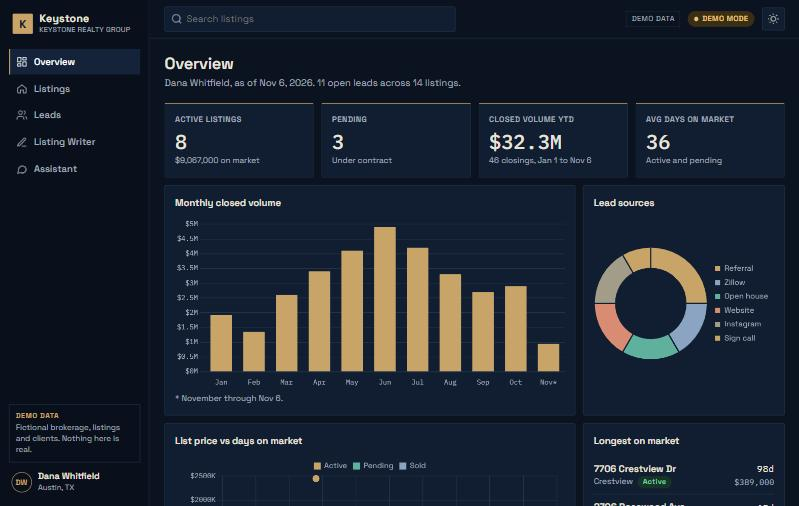
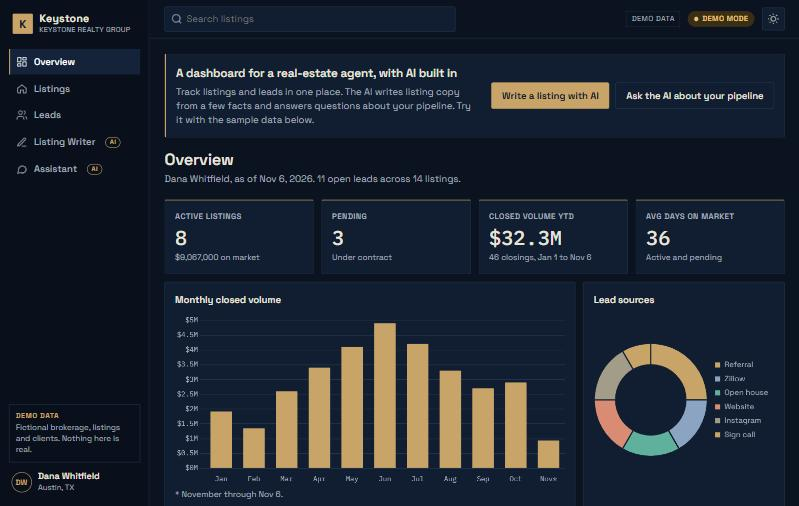
Make the AI features obvious on first visit
Adds an intro strip with one-click AI demos, AI markers in the nav, and
a prefilled listing writer so a visitor sees the AI work immediately.

diff --git a/app/writer/page.js b/app/writer/page.js
@@ -2,6 +2,7 @@
 
 import { useEffect, useRef, useState } from "react";
 import Icon from "@/components/Icon";
+import AiMark from "@/components/AiMark";
 import { ModeBadge } from "@/components/Shell";
 import { streamText } from "@/lib/streamClient";
 
@@ -98,8 +99,8 @@ export default function WriterPage() {
     <>
       <div className="page-head">
         <div>
-          <h1>AI Listing Writer</h1>
-          <p className="muted">Draft MLS copy from the facts you enter. Review before publishing.</p>
+          <h1>Listing Writer <AiMark /></h1>
+          <p className="muted"><strong>What the AI does:</strong> turns these facts into ready-to-post listing copy in your chosen tone. The example is filled in, so just press the button.</p>
         </div>
         <ModeBadge />
       </div>
@@ -132,7 +133,7 @@ export default function WriterPage() {
           </div>
 
           <div className="field">
-            <label htmlFor="w-tag">Key features <span className="muted small">(Enter or comma adds, up to 12)</span></label>
+            <label htmlFor="w-tag">Key features <span className="muted small">(press Enter to add)</span></label>
             <div className="tags" onClick={() => document.getElementById("w-tag")?.focus()}>
               {features.map((t) => (
                 <span key={t} className="tag">
@@ -152,30 +153,24 @@ export default function WriterPage() {
           </div>
 
           <div className="form-grid">
-            <fieldset className="field radios">
+            <fieldset className="field radios span-all">
               <legend>Tone</legend>
               {["Warm", "Luxury", "Concise"].map((t) => (
                 <label key={t} className="radio"><input type="radio" name="tone" value={t} checked={f.tone === t} onChange={set("tone")} /><span>{t}</span></label>
               ))}
             </fieldset>
-            <fieldset className="field radios">
-              <legend>Length</legend>
-              {["Short", "Standard", "Long"].map((t) => (
-                <label key={t} className="radio"><input type="radio" name="length" value={t} checked={f.length === t} onChange={set("length")} /><span>{t}</span></label>
-              ))}
-            </fieldset>
           </div>
 
-          <button type="submit" className="btn btn-primary" disabled={busy}>{busy ? "Writing..." : "Write description"}</button>
+          <button type="submit" className="btn btn-primary" disabled={busy}>{busy ? "Writing..." : "Write the listing with AI"}</button>
         </form>
 
         <section className="card output" aria-labelledby="out-h">
           <div className="output-head">
-            <h2 id="out-h">Description</h2>
+            <h2 id="out-h">Your listing copy</h2>
             <span className="num muted small" aria-label={`${out.length} characters`}>{out.length.toLocaleString("en-US")} chars</span>
           </div>
           <div className={`output-body${busy ? " streaming" : ""}`} aria-busy={busy}>
-            {err ? <p className="error" role="alert">{err}</p> : out ? <p>{out}</p> : <p className="muted">The generated description appears here. MLS fields usually cap at 1,000 to 4,000 characters, so check your board&apos;s limit.</p>}
+            {err ? <p className="error" role="alert">{err}</p> : out ? <p>{out}</p> : <p className="muted">Your listing copy will appear here. Press the button to see it, then check your board&apos;s character limit before posting.</p>}
           </div>
           <div className="output-actions">
             <button type="button" className="btn btn-ghost" onClick={copy} disabled={!out || busy}><Icon name="copy" size={15} /> {copied ? "Copied" : "Copy"}</button>

diff --git a/app/assistant/page.js b/app/assistant/page.js
@@ -2,6 +2,7 @@
 
 import { useEffect, useRef, useState } from "react";
 import Icon from "@/components/Icon";
+import AiMark from "@/components/AiMark";
 import { ModeBadge } from "@/components/Shell";
 import { streamText } from "@/lib/streamClient";
 import { loadStageOverrides } from "@/lib/leadStages";
@@ -103,8 +104,8 @@ export default function AssistantPage() {
     <>
       <div className="page-head">
         <div>
-          <h1>Assistant</h1>
-          <p className="muted">Ask about listings, leads and closings. Answers draw on the demo data only.</p>
+          <h1>Assistant <AiMark /></h1>
+          <p className="muted"><strong>Answers from your real listings and leads data.</strong> Ask in plain English, or tap a question below.</p>
         </div>
         <div className="head-actions">
           <ModeBadge />
@@ -116,8 +117,13 @@ export default function AssistantPage() {
         <div className="chat-log" role="log" aria-live="off" aria-busy={busy} aria-label="Conversation" tabIndex={0}>
           {msgs.length === 0 && (
             <div className="chat-empty">
-              <p className="strong">Start with a question</p>
-              <p className="muted">The assistant sees a compact summary of 14 listings, 12 leads (with your current stages) and monthly closings.</p>
+              <p className="strong">Tap a question to see the AI answer</p>
+              <p className="muted">It reads 14 listings, 12 leads (with your current stages) and monthly closings.</p>
+              <div className="chips chips-big" aria-label="Suggested questions">
+                {CHIPS.map((c) => (
+                  <button key={c} type="button" className="chip-btn" disabled={busy} onClick={() => send(c)}>{c}</button>
+                ))}
+              </div>
             </div>
           )}
           {msgs.map((m, i) => (
@@ -134,11 +140,11 @@ export default function AssistantPage() {
         </div>
         <p className="sr-only" role="status" aria-live="polite">{status}</p>
 
-        <div className="chips" aria-label="Suggested questions">
+        {msgs.length > 0 && <div className="chips" aria-label="Suggested questions">
           {CHIPS.map((c) => (
             <button key={c} type="button" className="chip-btn" disabled={busy} onClick={() => send(c)}>{c}</button>
           ))}
-        </div>
+        </div>}
 
         <form className="composer" onSubmit={(e) => { e.preventDefault(); send(input); }}>
           <label htmlFor="chat-in" className="sr-only">Ask about your pipeline</label>

diff --git a/app/listings/page.js b/app/listings/page.js
@@ -24,21 +24,17 @@ function ListingsView() {
   const params = useSearchParams();
   const [q, setQ] = useState(params.get("q") || "");
   const [status, setStatus] = useState("All");
-  const [hood, setHood] = useState("All");
   const [sort, setSort] = useState({ key: "dom", dir: "desc" });
 
   useEffect(() => {
     setQ(params.get("q") || "");
   }, [params]);
 
-  const hoods = useMemo(() => [...new Set(listings.map((l) => l.neighborhood))].sort(), []);
-
   const rows = useMemo(() => {
     const t = q.trim().toLowerCase();
     const r = listings.filter(
       (l) =>
         (status === "All" || l.status === status) &&
-        (hood === "All" || l.neighborhood === hood) &&
         (!t || `${l.address} ${l.neighborhood} ${l.zip} ${l.status} ${l.id}`.toLowerCase().includes(t))
     );
     const { key, dir } = sort;
@@ -48,7 +44,7 @@ function ListingsView() {
       return dir === "asc" ? c : -c;
     });
     return r;
-  }, [q, status, hood, sort]);
+  }, [q, status, sort]);
 
   const setSortKey = (key) => setSort((s) => (s.key === key ? { key, dir: s.dir === "asc" ? "desc" : "asc" } : { key, dir: "asc" }));
 
@@ -72,13 +68,6 @@ function ListingsView() {
             {["All", "Active", "Pending", "Sold"].map((s) => <option key={s}>{s}</option>)}
           </select>
         </div>
-        <div className="field">
-          <label htmlFor="lh">Neighborhood</label>
-          <select id="lh" value={hood} onChange={(e) => setHood(e.target.value)}>
-            <option>All</option>
-            {hoods.map((h) => <option key={h}>{h}</option>)}
-          </select>
-        </div>
         <div className="field sort-mobile">
           <label htmlFor="lsort">Sort by</label>
           <select id="lsort" value={`${sort.key}:${sort.dir}`} onChange={(e) => { const [key, dir] = e.target.value.split(":"); setSort({ key, dir }); }}>
@@ -91,7 +80,7 @@ function ListingsView() {
       </div>
 
       {rows.length === 0 ? (
-        <div className="card empty">No listings match those filters. <button type="button" className="text-link" onClick={() => { setQ(""); setStatus("All"); setHood("All"); }}>Clear filters</button></div>
+        <div className="card empty">No listings match those filters. <button type="button" className="text-link" onClick={() => { setQ(""); setStatus("All"); }}>Clear filters</button></div>
       ) : (
         <>
           <div className="card table-card">

diff --git a/components/Shell.js b/components/Shell.js
@@ -4,6 +4,7 @@ import { createContext, useCallback, useContext, useEffect, useState } from "rea
 import Link from "next/link";
 import { usePathname, useRouter } from "next/navigation";
 import Icon from "./Icon";
+import AiMark from "./AiMark";
 import { AGENT } from "@/lib/data";
 
 const AppCtx = createContext({ theme: "light", toggleTheme: () => {}, live: null });
@@ -13,8 +14,8 @@ const NAV = [
   { href: "/", label: "Overview", icon: "grid" },
   { href: "/listings", label: "Listings", icon: "home" },
   { href: "/leads", label: "Leads", icon: "users" },
-  { href: "/writer", label: "Listing Writer", short: "Writer", icon: "pen" },
-  { href: "/assistant", label: "Assistant", icon: "chat" },
+  { href: "/writer", label: "Listing Writer", short: "Writer", icon: "pen", ai: true },
+  { href: "/assistant", label: "Assistant", icon: "chat", ai: true },
 ];
 
 const THEME_COLORS = { light: "#F6F2EA", dark: "#0B1320" };
@@ -92,6 +93,7 @@ export default function Shell({ children }) {
                   <Link href={n.href} className="nav-link" aria-current={isActive(n.href) ? "page" : undefined}>
                     <Icon name={n.icon} />
                     {n.label}
+                    {n.ai && <AiMark />}
                   </Link>
                 </li>
               ))}

diff --git a/app/globals.css b/app/globals.css
@@ -314,3 +314,15 @@ tbody tr:last-child td { border-bottom: 0; }
 
 .head-actions { display: flex; align-items: center; gap: 10px; flex-wrap: wrap; }
 .chart-note { margin-top: 6px; }
+
+/* ---------- AI marker + intro ---------- */
+.ai-mark { display: inline-flex; align-items: center; margin-left: 6px; padding: 0 6px; border: 1px solid var(--accent-strong); border-radius: 99px; color: var(--accent-strong); font-family: var(--font-sans); font-size: 0.62rem; font-weight: 700; letter-spacing: 0.08em; line-height: 1.5; vertical-align: middle; text-transform: uppercase; }
+.sidebar .ai-mark { color: var(--accent); border-color: var(--accent); }
+.intro { display: flex; align-items: center; justify-content: space-between; gap: 16px 24px; flex-wrap: wrap; margin-bottom: 20px; border-left: 3px solid var(--accent); }
+.intro h2 { font-size: 1.15rem; margin-bottom: 4px; }
+.intro > div:first-child { flex: 1 1 320px; max-width: 640px; }
+.intro-actions { display: flex; gap: 10px; flex-wrap: wrap; }
+.intro-actions .btn { text-decoration: none; }
+.chips-big { justify-content: center; padding: 14px 0 0; }
+.chips-big .chip-btn { padding: 8px 14px; font-size: 0.9rem; }
+@media (max-width: 600px) { .intro-actions .btn { flex: 1 1 100%; } }

diff --git a/app/page.js b/app/page.js
@@ -28,6 +28,17 @@ export default function Overview() {
 
   return (
     <>
+      <section className="card intro" aria-labelledby="intro-h">
+        <div>
+          <h2 id="intro-h">A dashboard for a real-estate agent, with AI built in</h2>
+          <p className="muted">Track listings and leads in one place. The AI writes listing copy from a few facts and answers questions about your pipeline. Try it with the sample data below.</p>
+        </div>
+        <div className="intro-actions">
+          <Link href="/writer" className="btn btn-primary">Write a listing with AI</Link>
+          <Link href="/assistant" className="btn btn-ghost">Ask the AI about your pipeline</Link>
+        </div>
+      </section>
+
       <div className="page-head">
         <div>
           <h1>Overview</h1>

diff --git a/components/AiMark.js b/components/AiMark.js
@@ -1,0 +1,8 @@
+export default function AiMark() {
+  return (
+    <span className="ai-mark" title="Powered by AI">
+      <span aria-hidden="true">AI</span>
+      <span className="sr-only">AI-powered</span>
+    </span>
+  );
+}

diff --git a/README.md b/README.md
@@ -13,9 +13,9 @@ A SaaS-style dashboard for a fictional Austin real-estate agent. It tracks listi
 ## Features
 
 - **Overview dashboard:** KPI cards computed from the data, plus three Chart.js charts (monthly closed volume, lead sources, price vs days on market) that re-theme instantly.
-- **Listings:** sortable, searchable, filterable table on desktop, switching to cards on phones.
+- **Listings:** sortable, searchable table with a status filter on desktop, switching to cards on phones.
 - **Leads pipeline:** five stages (New → Closed). Leads move with keyboard-friendly controls and are saved in the browser.
-- **AI listing writer:** enter beds, baths, size, neighborhood, features and tone, and get MLS-ready copy streamed in word by word, with Copy and Regenerate.
+- **AI listing writer:** a prefilled example you can run in one click. Change the facts or tone and get ready-to-post copy streamed in word by word, with Copy and Regenerate.
 - **AI assistant:** chat that answers from the actual listings and leads (including your stage changes), with suggested questions and streaming replies.
 - **Dark / light mode:** follows the system setting, remembered, with no flash on load.
 - **Accessibility:** skip link, screen-reader announcements for streaming answers, visible focus, WCAG AA contrast in both themes.
@@ -23,7 +23,7 @@ A SaaS-style dashboard for a fictional Austin real-estate agent. It tracks listi
 ## How the AI is built
 
 - The browser calls the app's own API routes (`/api/generate`, `/api/chat`). Only the server talks to the AI provider, so **the API key is never sent to the browser**.
-- Provider: [Groq](https://console.groq.com) free tier (GPT-OSS 120B by default; any Groq model via `GROQ_MODEL`), called through its OpenAI-compatible streaming API. Swapping to OpenAI, Claude or Gemini means changing one server file.
+- Provider: [Groq](https://console.groq.com) free tier (GPT-OSS 120B by default; any Groq model via `GROQ_MODEL`), called through its OpenAI-compatible streaming API. Swapping to OpenAI or Gemini means changing one server file.
 - **Demo mode:** with no key, or if the free limit is reached, the API streams realistic answers built from the demo data. The badge in the top bar shows **Demo mode** or **Live AI**.
 - **Abuse protection:** input size limits, history checks, and per-IP and global rate limits.
 
